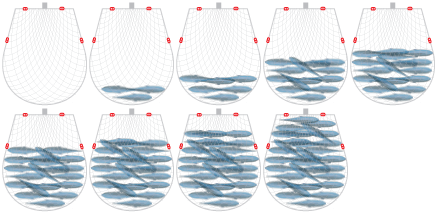
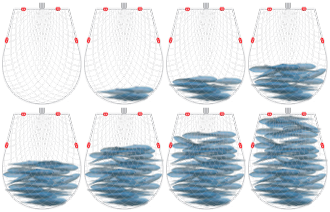
new assests and polish on updated buy phase

diff --git a/web/source/boat.dart b/web/source/boat.dart
@@ -10,6 +10,16 @@ class Boat extends Sprite implements Touchable, Animatable {
   static const num BASE_ROT_SPEED = .09;
   static const num BASE_NET_CAPACITY = 25000;
   
+  static const int SMALL_NET_SARDINE_CAPACITY = 100;
+  static const int LARGE_NET_SARDINE_CAPACITY = 200;
+  static const int SMALL_NET_TUNA_CAPACITY = 15;
+  static const int LARGE_NET_TUNA_CAPACITY = 30;
+  static const int SMALL_NET_SHARK_CAPACITY = 3;
+  static const int LARGE_NET_SHARK_CAPACITY = 8;
+  
+
+  
+  
   static const int SMALLNET = 0;
   static const int LARGENET = 1;
   
@@ -154,18 +164,36 @@ class Boat extends Sprite implements Touchable, Animatable {
     
     if (type==Fleet.TEAMASARDINE || type==Fleet.TEAMBSARDINE){
       catchType = Ecosystem.SARDINE;
-      if(netSize == LARGENET) _nets = resourceManager.getTextureAtlas('sardineNets');
-      else if(netSize == SMALLNET) _nets = resourceManager.getTextureAtlas('sardineNetsSmall');
+      if(netSize == LARGENET){
+        _nets = resourceManager.getTextureAtlas('sardineNets');
+        netCapacityMax = LARGE_NET_SARDINE_CAPACITY;
+      }
+      else if(netSize == SMALLNET){
+        _nets = resourceManager.getTextureAtlas('sardineNetsSmall');
+        netCapacityMax = SMALL_NET_SARDINE_CAPACITY;
+      }
     }
     if (type==Fleet.TEAMATUNA || type==Fleet.TEAMBTUNA){
       catchType = Ecosystem.TUNA;
-      if(netSize == LARGENET) _nets = resourceManager.getTextureAtlas('tunaNets');
-      else if(netSize == SMALLNET) _nets = resourceManager.getTextureAtlas('tunaNetsSmall');
+      if(netSize == LARGENET){
+        _nets = resourceManager.getTextureAtlas('tunaNets');
+        netCapacityMax = LARGE_NET_TUNA_CAPACITY;
+      }
+      else if(netSize == SMALLNET){
+        _nets = resourceManager.getTextureAtlas('tunaNetsSmall');
+        netCapacityMax = SMALL_NET_TUNA_CAPACITY;
+      }
     }
     if (type==Fleet.TEAMASHARK || type==Fleet.TEAMBSHARK){
       catchType = Ecosystem.SHARK;
-      if(netSize == LARGENET) _nets = resourceManager.getTextureAtlas('sharkNets');
-      else if(netSize == SMALLNET) _nets = resourceManager.getTextureAtlas('sharkNetsSmall');
+      if(netSize == LARGENET){
+        _nets = resourceManager.getTextureAtlas('sharkNets');
+        netCapacityMax = LARGE_NET_SHARK_CAPACITY;
+      }
+      else if(netSize == SMALLNET){
+        _nets = resourceManager.getTextureAtlas('sharkNetsSmall');
+        netCapacityMax = SMALL_NET_SHARK_CAPACITY;
+      }
     }
     if (type==Fleet.TEAMASARDINE || type==Fleet.TEAMATUNA || type==Fleet.TEAMASHARK) _teamA = true;
     else _teamA = false;
@@ -259,9 +287,9 @@ class Boat extends Sprite implements Touchable, Animatable {
     if (n==Ecosystem.SHARK) worth = 100;
     _netMoney = _netMoney + worth;
     
-    if (n==Ecosystem.SARDINE) _netCapacity = _netCapacity + 5;
-    if (n==Ecosystem.TUNA) _netCapacity = _netCapacity + 15;
-    if (n==Ecosystem.SHARK) _netCapacity = _netCapacity + 50;
+    if (n==Ecosystem.SARDINE) _netCapacity = _netCapacity + 1;
+    if (n==Ecosystem.TUNA) _netCapacity = _netCapacity + 1;
+    if (n==Ecosystem.SHARK) _netCapacity = _netCapacity + 1;
     _changeNetGraphic();
   }
 
@@ -581,12 +609,15 @@ class Boat extends Sprite implements Touchable, Animatable {
     netSize = SMALLNET;
     if (_type==Fleet.TEAMASARDINE || _type==Fleet.TEAMBSARDINE){
       _nets = _resourceManager.getTextureAtlas('sardineNetsSmall');
+      netCapacityMax = SMALL_NET_SARDINE_CAPACITY;
     }
     if (_type==Fleet.TEAMATUNA || _type==Fleet.TEAMBTUNA){
       _nets = _resourceManager.getTextureAtlas('tunaNetsSmall');
+      netCapacityMax = SMALL_NET_TUNA_CAPACITY;
     }
     if (_type==Fleet.TEAMASHARK || _type==Fleet.TEAMBSHARK){
       _nets = _resourceManager.getTextureAtlas('sharkNetsSmall');
+      netCapacityMax = SMALL_NET_SHARK_CAPACITY;
     }
     _netNames = _nets.frameNames;
     _changeNetGraphic();
@@ -598,12 +629,15 @@ class Boat extends Sprite implements Touchable, Animatable {
     
     if (_type==Fleet.TEAMASARDINE || _type==Fleet.TEAMBSARDINE){
       _nets = _resourceManager.getTextureAtlas('sardineNets');
+      netCapacityMax = LARGE_NET_SARDINE_CAPACITY;
     }
     if (_type==Fleet.TEAMATUNA || _type==Fleet.TEAMBTUNA){
       _nets = _resourceManager.getTextureAtlas('tunaNets');
+      netCapacityMax = LARGE_NET_TUNA_CAPACITY;
     }
     if (_type==Fleet.TEAMASHARK || _type==Fleet.TEAMBSHARK){
       _nets = _resourceManager.getTextureAtlas('sharkNets');
+      netCapacityMax = LARGE_NET_SHARK_CAPACITY;
     }
     _netNames = _nets.frameNames;
     _changeNetGraphic();

diff --git a/web/source/game.dart b/web/source/game.dart
@@ -13,7 +13,7 @@ class Game extends Sprite implements Animatable{
   static const REGROWTH_TIMER_WIDTH = 125;
   static const BUY_TIMER_WIDTH = 125;
   
-  static const FISHING_TIME = 25;
+  static const FISHING_TIME = 10;
   static const REGROWTH_TIME = 10;
   static const BUYING_TIME = 15;
   
@@ -570,15 +570,15 @@ class Game extends Sprite implements Animatable{
                   ..x = width~/2+teamAMoneyText.width~/2
                   ..y = 60
                   ..rotation = math.PI;
-    addChild(teamAMoneyText);
-    uiObjects.add(teamAMoneyText);
+//    addChild(teamAMoneyText);
+//    uiObjects.add(teamAMoneyText);
     
     teamBMoneyText = new TextField("\$$teamBMoney", format);
     teamBMoneyText..width = 150
                   ..x = width~/2-teamBMoneyText.width~/2
                   ..y = height-60;
-    addChild(teamBMoneyText);
-    uiObjects.add(teamBMoneyText);
+//    addChild(teamBMoneyText);
+//    uiObjects.add(teamBMoneyText);
     
     //Text Elements for Team Cummulative Score
     teamAScoreText = new TextField("Score: ${teamAScore}", format);

diff --git a/web/source/offseason.dart b/web/source/offseason.dart
@@ -75,7 +75,7 @@ class Offseason extends Sprite {
     addChild(offseasonDock);
     addChild(_teamACircle);
     addChild(_teamBCircle);
-
+    
   }
   
   void clearAndRefillDock() {
@@ -442,6 +442,7 @@ class Circle extends Sprite implements Touchable {
     addChild(_tunaButton);
     addChild(_sardineButton);
     addChild(_sharkButton);
+    new Timer(new Duration(milliseconds:200), () =>_circlePressed(0));
   }
   
   void _circlePressed(var e) {
